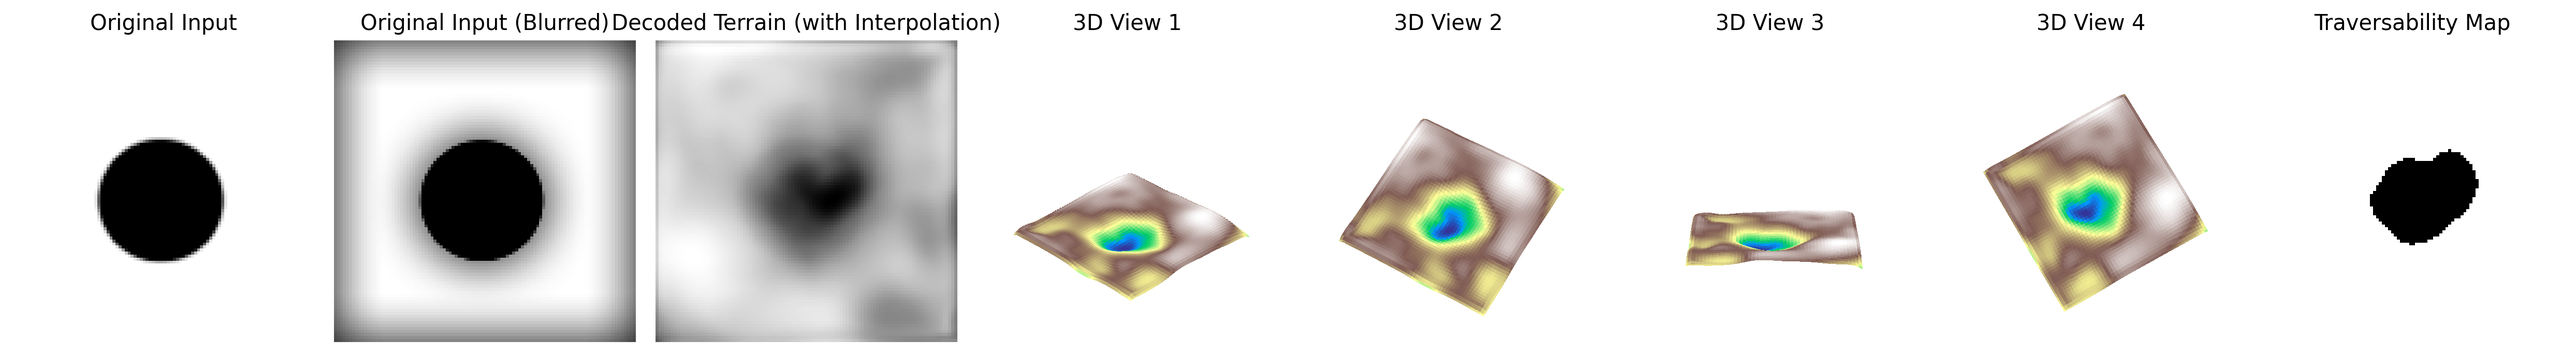
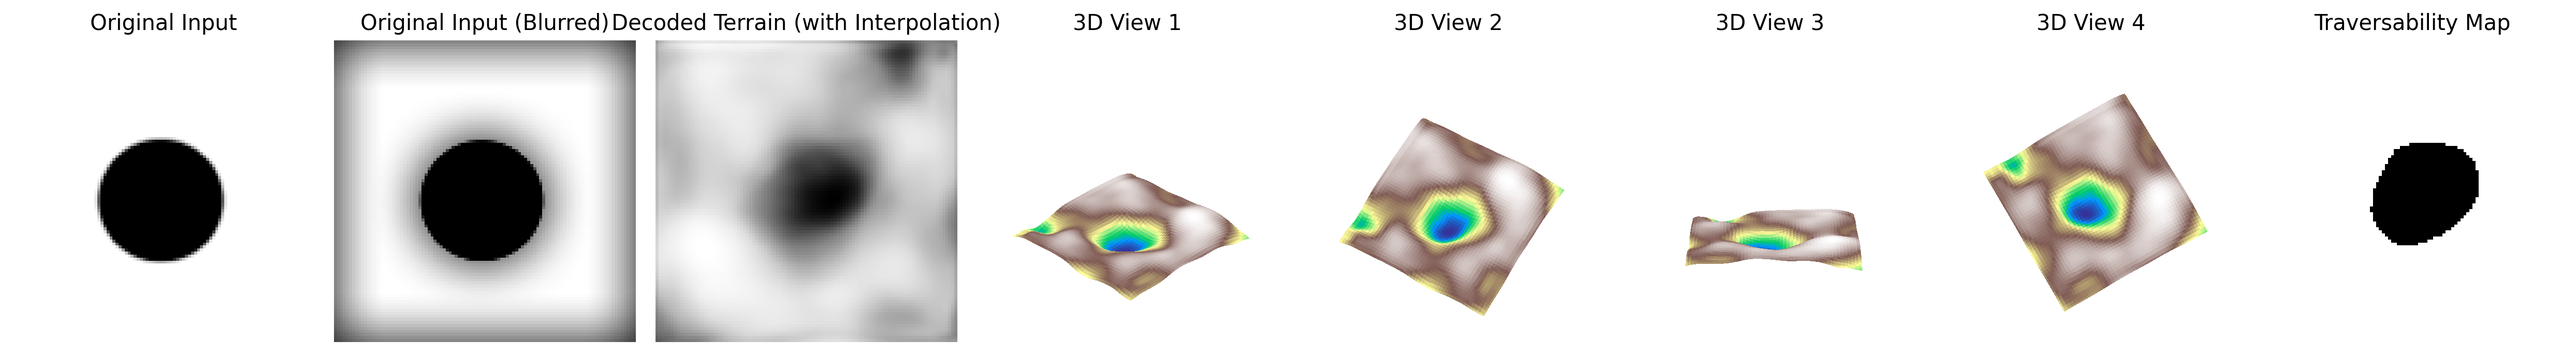
add calculator for traversability thresh

diff --git a/usage.py b/usage.py
@@ -7,8 +7,16 @@ from main import CVAE
 from main import hpcfg
 from PIL import Image
 import os
+from math import tan, radians
 from classify_terrain_tensor import count_features_by_class, classify_terrain_tensor, terrain_counts_tensor
 from queue import Queue
+
+
+def calculate_threshold(total_height, angle):
+    # angle in degrees
+    # total_height in meters
+    horizontal = 512.0 / 100.0  # 512/100 meters between pixels
+    return horizontal * tan(radians(angle)) / total_height  # derive threshold from acceptable slope angle
 
 
 def gaussian_kernel(size: int, sigma: float):
@@ -35,7 +43,7 @@ model.load_state_dict(checkpoint["model_state_dict"])
 model.eval()
 
 # Load one input image from inputs/
-img_path = "example5.png"
+img_path = "example1.png"
 img = Image.open(os.path.join("inputs", img_path)).convert("L").resize((hpcfg.img_size, hpcfg.img_size))
 x = torch.tensor(np.array(img), dtype=torch.float32).unsqueeze(0).unsqueeze(0) / 255.0
 x_orig = x.clone()  # save copy
@@ -100,8 +108,9 @@ def compute_traversable(grid, thresh=0.1, max_iters=1000):
 
     return 1.0 - reachable.squeeze(0).squeeze(0)
 
+print(f"Acceptable threshold: {calculate_threshold(total_height=10, angle=20)}% = {calculate_threshold(total_height=10, angle=20)*10}m")
 
-traversable_map = compute_traversable(torch.tensor(recon_mix, dtype=torch.float32))
+traversable_map = compute_traversable(torch.tensor(recon_mix, dtype=torch.float32), thresh=calculate_threshold(total_height=10, angle=20))
 
 # Scale 3D heights
 recon_scaled = recon_mix * 0.2

diff --git a/main.py b/main.py
@@ -98,8 +98,11 @@ try:
 except FileNotFoundError:
     print("Dataset not found!")
 
-n_fixed = min(8, len(dataset))  # fixed examples
-fixed_data = torch.stack([dataset[i] for i in range(n_fixed)]).unsqueeze(1).to(device)  # [n,1,H,W]
+try:
+    n_fixed = min(8, len(dataset))  # fixed examples
+    fixed_data = torch.stack([dataset[i] for i in range(n_fixed)]).unsqueeze(1).to(device)  # [n,1,H,W]
+except NameError:
+    print("Variable dataset is not defined!")
 
 # test_loader = torch.utils.data.DataLoader(dataset,
 #                                          batch_size=hpcfg.batch_size,
